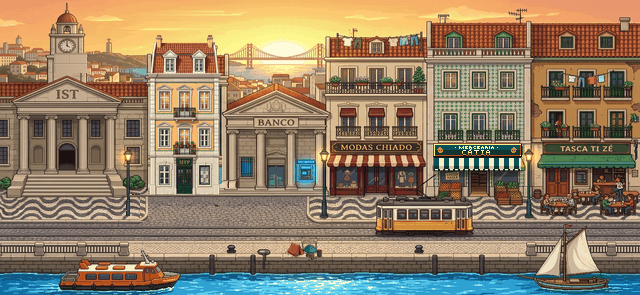
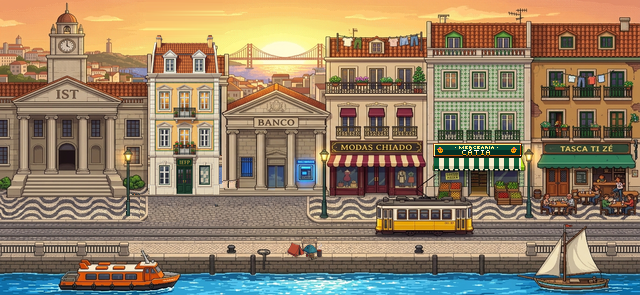
fix(board): uniform stone tower on IST and pombalino IEFP building (v8.5)

diff --git a/tools/test_enhancements.js b/tools/test_enhancements.js
@@ -254,8 +254,8 @@ console.log("✓ 6. Vinhetas Cinematográficas 16-bit: Efeitos de letterbox, typ
 // -----------------------------------------------------------------------------
 // TESTE 6: VERSÃO DE ASSETS
 // -----------------------------------------------------------------------------
-assert.strictEqual(vm.runInContext("ASSET_VER", sandbox), '8.4', "ASSET_VER incrementado para 8.4");
-console.log("✓ 7. Protocolo de Cache-Busting: ASSET_VER = '8.4' confirmado!");
+assert.strictEqual(vm.runInContext("ASSET_VER", sandbox), '8.5', "ASSET_VER incrementado para 8.5");
+console.log("✓ 7. Protocolo de Cache-Busting: ASSET_VER = '8.5' confirmado!");
 
 // -----------------------------------------------------------------------------
 // TESTE 8: CÓDEX "QUEM É QUEM EM LISBOA" & ÁLBUM DE FOTOGRAFIAS DINÂMICAS

diff --git a/index.html b/index.html
@@ -3814,7 +3814,7 @@ ctx.imageSmoothingEnabled = false;
 // ============================================================================
 // 16-BIT BITMAPPED RETRO ASSETS (STARDEW VALLEY / EASTWARD FIDELITY)
 // ============================================================================
-const ASSET_VER = '8.4';
+const ASSET_VER = '8.5';
 const boardImg = new Image();
 boardImg.src = `assets/board.png?v=${ASSET_VER}`;
 
